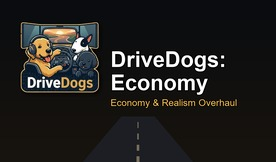
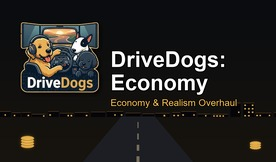
Add city skyline and coin-stack motifs to mod cover
Reinforces the economy theme with a low-contrast city silhouette
(one taller tower breaking the line) between the tagline and the
road, plus gold coin stacks tucked into the bottom corners - both
confined to gaps in the existing layout so the logo and text stay
fully legible.

diff --git a/tools/generate_cover.py b/tools/generate_cover.py
@@ -9,8 +9,9 @@ BetterFlares headlight mods, this one drops the oncoming-beam layer (not a
 headlight mod) but keeps the road graphic and gold/amber palette matching
 logo.png's own tones.
 """
+import random
 from pathlib import Path
-from PIL import Image, ImageDraw, ImageFont
+from PIL import Image, ImageDraw, ImageFont, ImageFilter
 
 ROOT = Path(__file__).resolve().parent.parent
 LOGO_PATH = ROOT / "logo.png"
@@ -27,6 +28,11 @@ BG_TOP = (10, 12, 16)
 BG_BOTTOM = (24, 20, 14)
 TITLE_COLOR = (255, 255, 255)
 SUBTITLE_COLOR = (255, 196, 84)
+SKYLINE_COLOR = (5, 5, 9)
+SKYLINE_RIM_COLOR = (255, 170, 70)
+WINDOW_COLOR = (255, 196, 84)
+COIN_COLOR = (255, 196, 84)
+COIN_RIM_COLOR = (168, 122, 40)
 
 
 def make_background(size):
@@ -40,6 +46,68 @@ def make_background(size):
         b = int(BG_TOP[2] + (BG_BOTTOM[2] - BG_TOP[2]) * t)
         for x in range(w):
             px[x, y] = (r, g, b)
+    return img
+
+
+def add_skyline(img):
+    """City silhouette confined to the thin gap between the text block and
+    the road (roughly 0.685h-0.72h) so it never fights the title/subtitle,
+    and is hidden behind the logo where the two would otherwise overlap,
+    since this runs before paste_logo."""
+    w, h = img.size
+    draw = ImageDraw.Draw(img, "RGBA")
+    rng = random.Random(7)  # fixed seed - stable output across regenerations
+
+    baseline = int(h * 0.722)  # sits right at the road's top edge
+    x = 0.0
+    while x < w:
+        bw = rng.uniform(w * 0.028, w * 0.06)
+        top_frac = rng.uniform(0.685, 0.705)
+        # one taller tower breaking the skyline for visual interest
+        if 0.80 * w < x < 0.90 * w:
+            top_frac = 0.635
+        top = int(h * top_frac)
+        draw.rectangle([x, top, x + bw, baseline], fill=(*SKYLINE_COLOR, 255))
+        draw.line([(x, top), (x + bw, top)], fill=(*SKYLINE_RIM_COLOR, 90), width=max(1, int(h * 0.004)))
+
+        # sparse lit windows
+        rows = max(1, int((baseline - top) / (h * 0.02)))
+        cols = max(1, int(bw / (w * 0.011)))
+        for r in range(rows):
+            for c in range(cols):
+                if rng.random() < 0.3:
+                    wx = x + (c + 0.5) * (bw / cols)
+                    wy = top + (r + 0.7) * ((baseline - top) / rows)
+                    draw.rectangle(
+                        [wx - w * 0.0025, wy - h * 0.004, wx + w * 0.0025, wy + h * 0.004],
+                        fill=(*WINDOW_COLOR, 200),
+                    )
+        x += bw + rng.uniform(w * 0.004, w * 0.012)
+    return img
+
+
+def add_money_motif(img):
+    """Subtle glowing coin stacks tucked into the bottom corners, clear of
+    the road, logo, and text - a quiet nod to the mod's economy theme."""
+    w, h = img.size
+
+    def coin_stack(cx, cy, r, count):
+        layer = Image.new("RGBA", img.size, (0, 0, 0, 0))
+        draw = ImageDraw.Draw(layer)
+        for i in range(count):
+            y = cy - i * r * 0.38
+            draw.ellipse([cx - r, y - r * 0.34, cx + r, y + r * 0.34], fill=(*COIN_COLOR, 210))
+            draw.ellipse(
+                [cx - r, y - r * 0.34, cx + r, y + r * 0.34], outline=(*COIN_RIM_COLOR, 230), width=max(1, int(r * 0.08))
+            )
+        glow = layer.filter(ImageFilter.GaussianBlur(radius=r * 0.5))
+        base = img.convert("RGBA")
+        base = Image.alpha_composite(base, glow)
+        base = Image.alpha_composite(base, layer)
+        return base.convert("RGB")
+
+    img = coin_stack(cx=w * 0.10, cy=h * 0.90, r=w * 0.024, count=4)
+    img = coin_stack(cx=w * 0.925, cy=h * 0.91, r=w * 0.020, count=3)
     return img
 
 
@@ -82,7 +150,6 @@ def paste_logo(img):
     shadow_logo = Image.new("RGBA", logo.size, (0, 0, 0, 160))
     shadow_logo.putalpha(logo.split()[3])
     shadow.paste(shadow_logo, (pos[0] + 6, pos[1] + 6), shadow_logo)
-    from PIL import ImageFilter
     shadow = shadow.filter(ImageFilter.GaussianBlur(radius=8))
 
     base = img.convert("RGBA")
@@ -148,7 +215,9 @@ def add_text(img):
 
 def main():
     img = make_background(CANVAS_SIZE)
+    img = add_skyline(img)
     img = add_road(img)
+    img = add_money_motif(img)
     img = paste_logo(img)
     img = add_text(img)
     img = img.resize(FINAL_SIZE, Image.LANCZOS)
